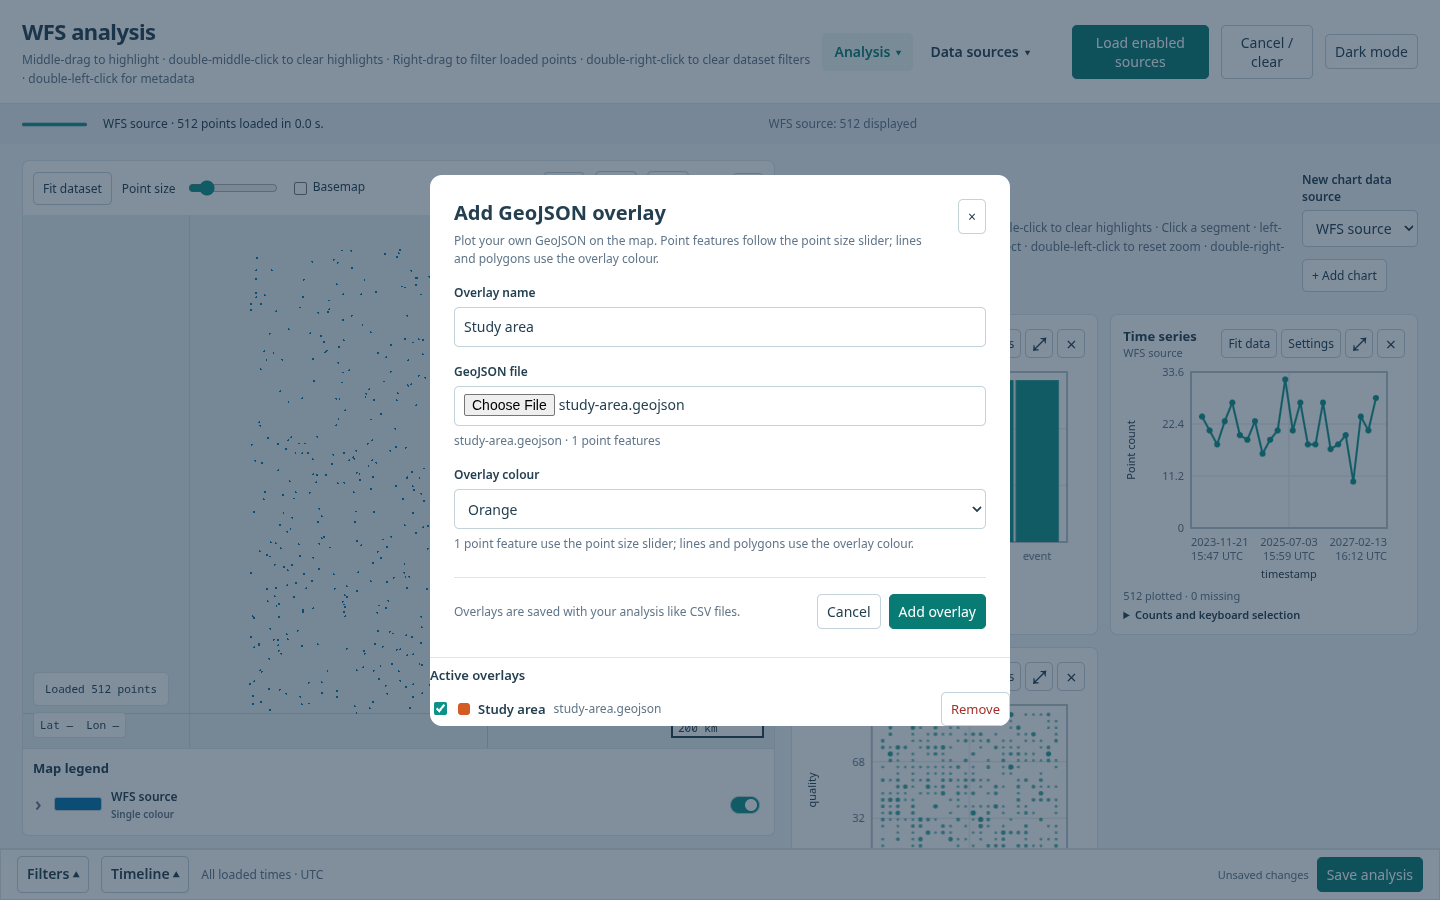
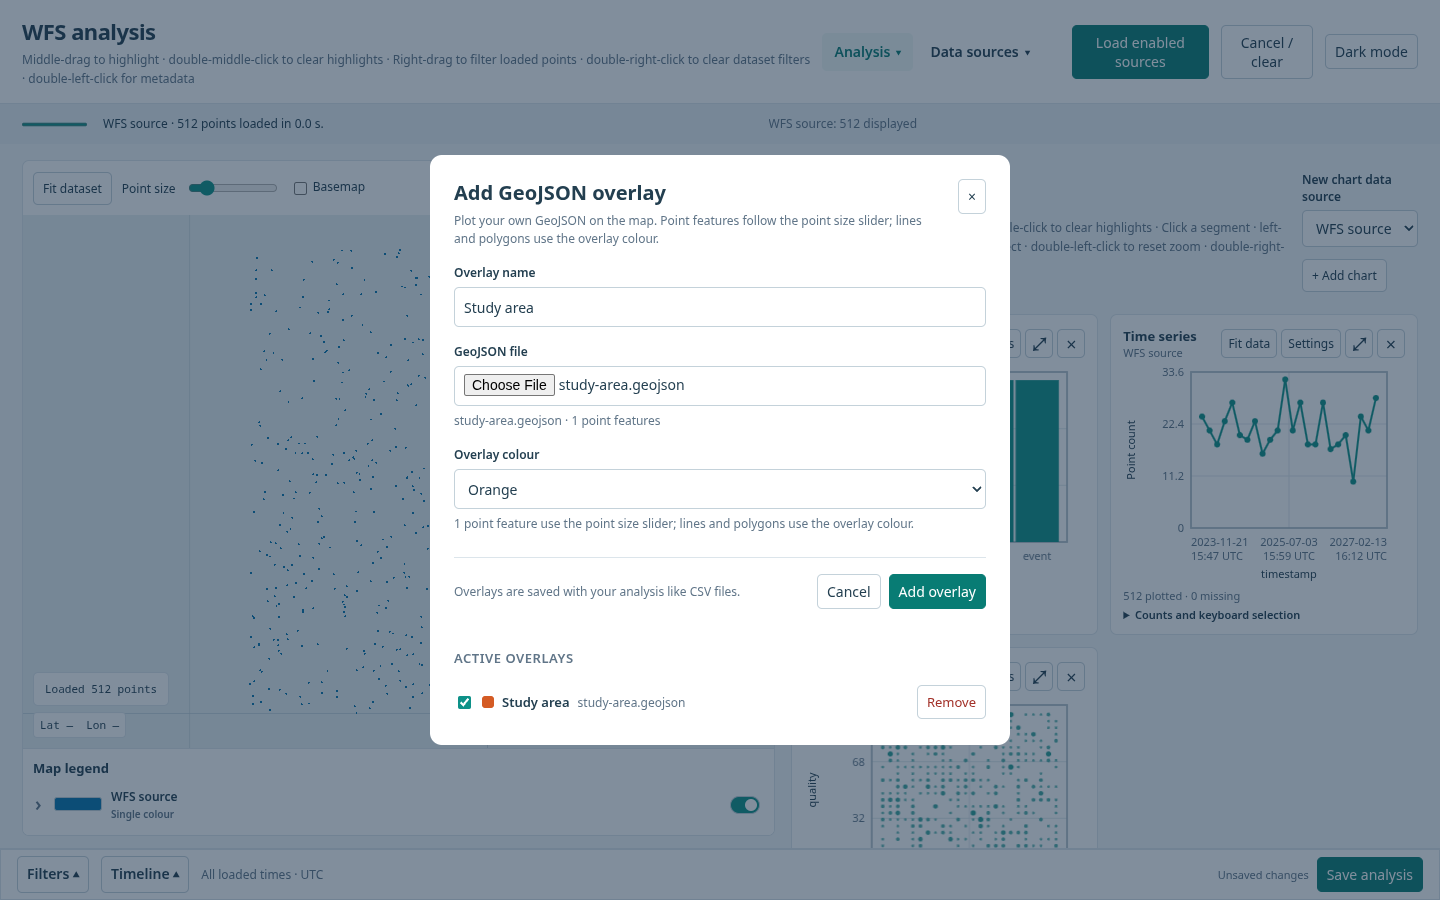
style: fix overlay list padding inside dialog
The active overlays list inside the dialog had no horizontal padding,
causing content to touch the dialog edges. The footer's border-top
combined with the list's border-top created a double line.

Fix:
- Added 24px horizontal padding to match the form's padding
- Added 16px top / 20px bottom padding for breathing room
- Removed the list's border-top (footer already has one)
- Styled the 'Active overlays' heading as a muted uppercase label
- Added subtle padding to overlay rows

Changed region(s): [[0.2812, 0.1556, 0.7188, 0.7156], [0.2812, 0.7156, 0.7188, 0.84], [0.3125, 0.6533, 0.5312, 0.6844]]

diff --git a/src/style.css b/src/style.css
@@ -1011,11 +1011,11 @@ html { scroll-padding-bottom: var(--workspace-dock-height, 48px); }
 .map-tools #enlargeMap { margin-left:0; }
 #addOverlay { display:inline-flex;align-items:center;justify-content:center;min-width:34px; }
 /* Active overlays are listed inside the overlay dialog, not as a side panel. */
-#overlayDialog .overlay-list { display:flex;flex-direction:column;gap:4px;padding:0;border-top:1px solid var(--border);margin-top:4px;padding-top:8px; }
-#overlayDialog .overlay-list-heading { font-size:13px;font-weight:600;margin:0 0 4px; }
-#overlayDialog .overlay-row { display:flex;align-items:center;gap:8px;font-size:13px; }
+#overlayDialog .overlay-list { display:flex;flex-direction:column;gap:4px;padding:16px 24px 20px;margin-top:0;border-top:none; }
+#overlayDialog .overlay-list-heading { font-size:13px;font-weight:600;margin:0 0 8px;color:var(--muted);text-transform:uppercase;letter-spacing:.04em; }
+#overlayDialog .overlay-row { display:flex;align-items:center;gap:8px;font-size:13px;padding:6px 0; }
 #overlayDialog .overlay-row .overlay-name { font-weight:600; }
-#overlayDialog .overlay-row .hint { flex:1; }
+#overlayDialog .overlay-row .hint { flex:1;color:var(--muted); }
 #overlayDialog .overlay-swatch { width:12px;height:12px;border-radius:3px;flex:none; }
 #overlayDialog .overlay-row button.danger { margin-left:auto; }
 
